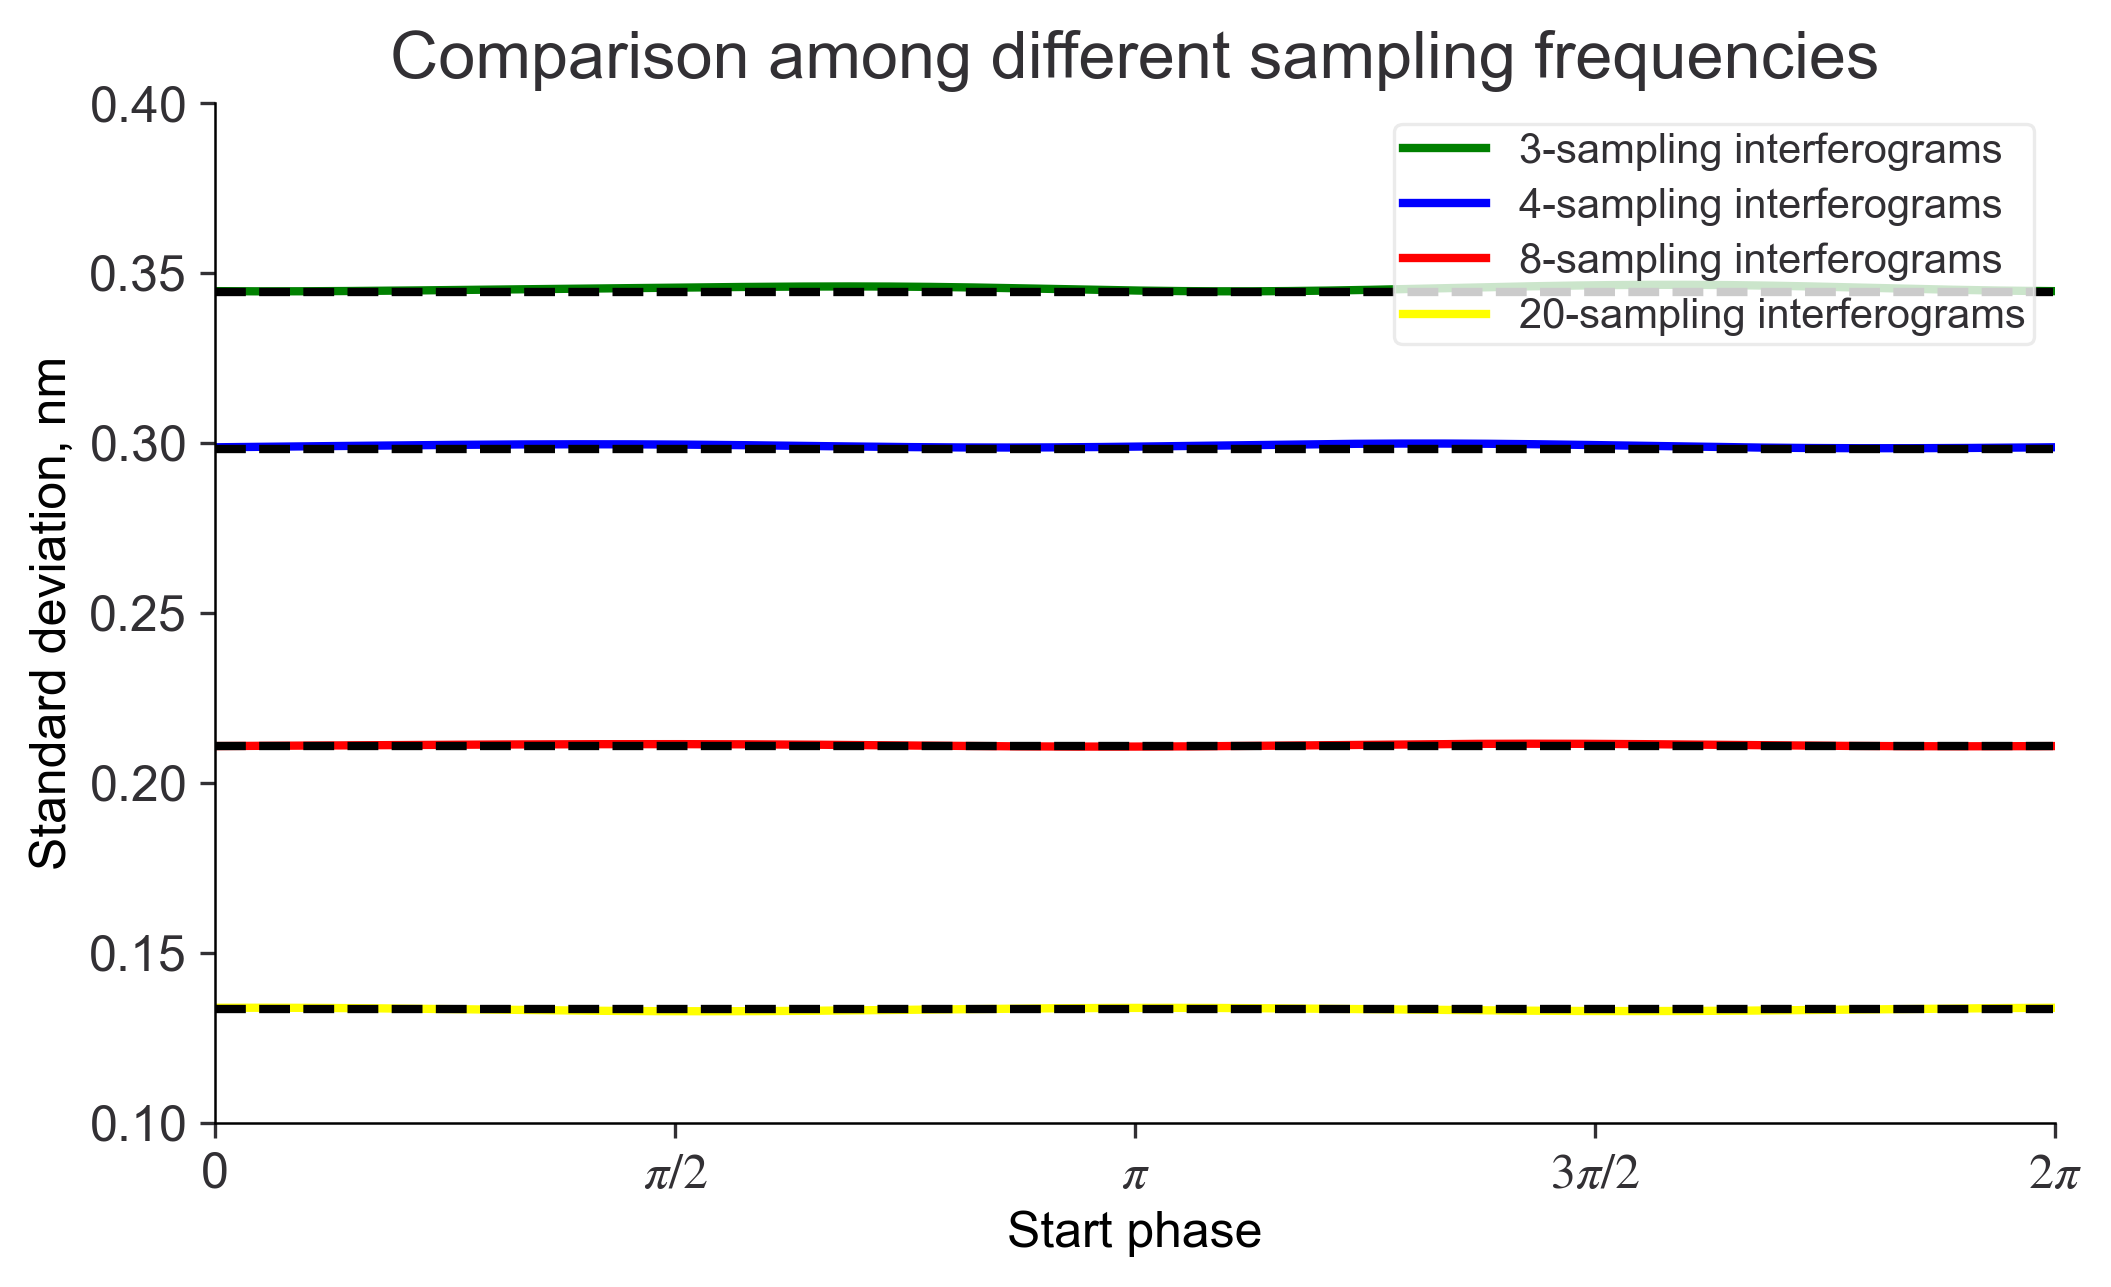
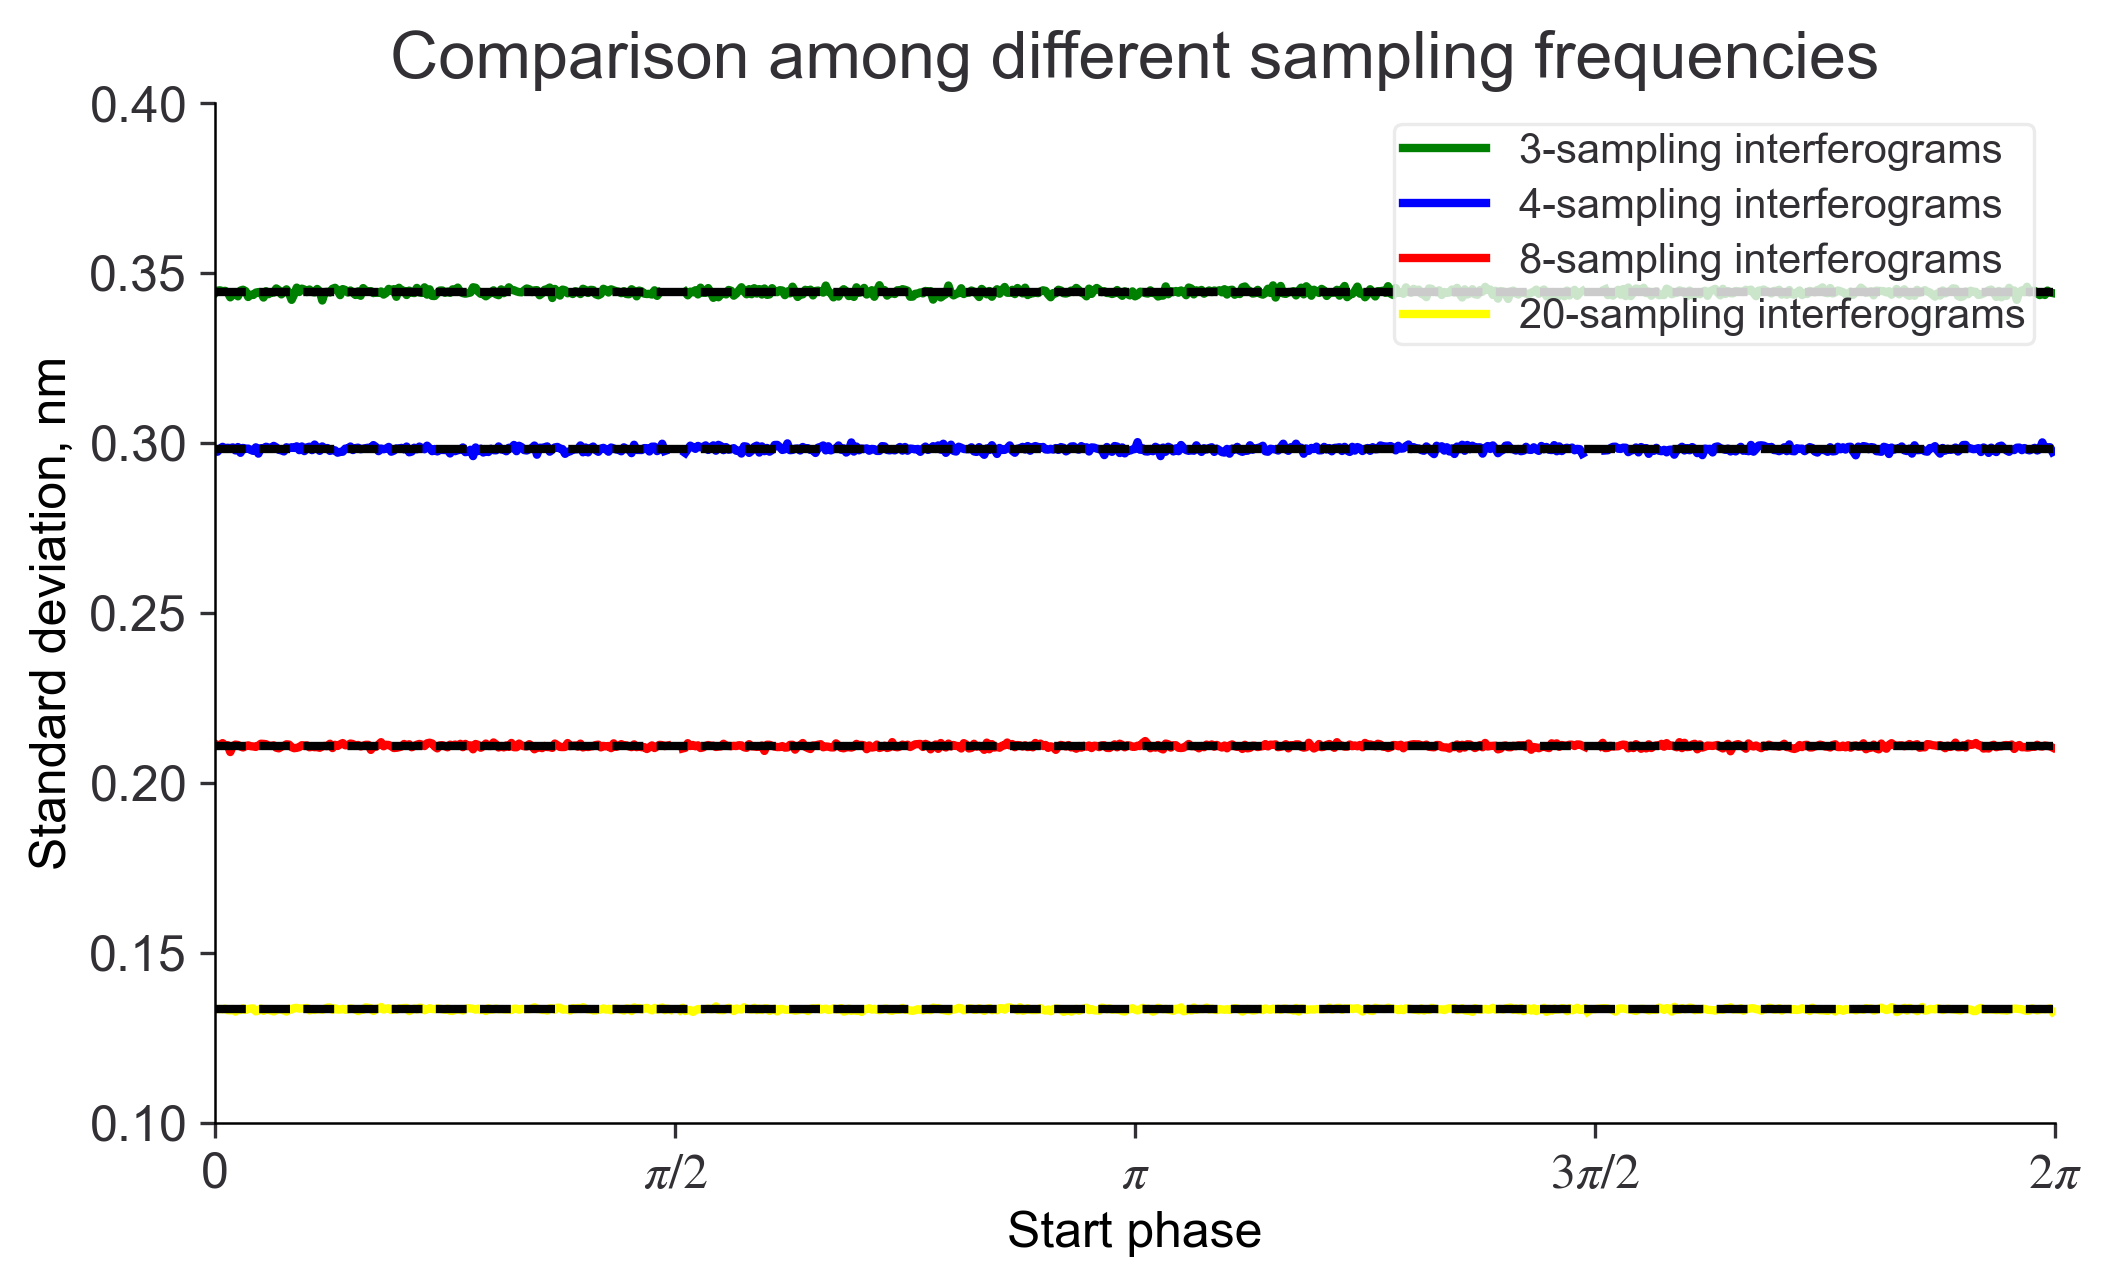
function of PSI

diff --git a/Shot_Noise_N-Diagram.py b/Shot_Noise_N-Diagram.py
@@ -26,17 +26,17 @@ m_std_20 = outlier_delete(m_std_20)
 # create the graph
 plt.style.use('scientific')
 fig = plt.figure()
-plt.plot(m_std_3*.1, label='3-sampling interferograms', color='green')
-plt.plot(n_Step_theoretical_std(step=3, position_noise=False, shot_noise=True)*.1, 'k--')
+plt.plot(m_std_3, label='3-sampling interferograms', color='green')
+plt.plot(n_Step_theoretical_std(step=3, position_noise=False, shot_noise=True), 'k--')
 
-plt.plot(m_std_4*.1, label='4-sampling interferograms', color='blue')
-plt.plot(n_Step_theoretical_std(step=4, position_noise=False, shot_noise=True)*.1, 'k--')
+plt.plot(m_std_4, label='4-sampling interferograms', color='blue')
+plt.plot(n_Step_theoretical_std(step=4, position_noise=False, shot_noise=True), 'k--')
 
-plt.plot(m_std_8*.1, label='8-sampling interferograms', color='red')
-plt.plot(n_Step_theoretical_std(step=8, position_noise=False, shot_noise=True)*.1, 'k--')
+plt.plot(m_std_8, label='8-sampling interferograms', color='red')
+plt.plot(n_Step_theoretical_std(step=8, position_noise=False, shot_noise=True), 'k--')
 
-plt.plot(m_std_20*.1, label='20-sampling interferograms', color='yellow')
-plt.plot(n_Step_theoretical_std(step=20, position_noise=False, shot_noise=True)*.1, 'k--')
+plt.plot(m_std_20, label='20-sampling interferograms', color='yellow')
+plt.plot(n_Step_theoretical_std(step=20, position_noise=False, shot_noise=True), 'k--')
 
 plt.title('Comparison among different sampling frequencies')
 plt.xlabel('Start phase')
@@ -72,14 +72,4 @@ plt.legend(loc='upper right')
 plt.xlim(2, 200)
 plt.tight_layout()
 plt.savefig('Images/Shot Noise/standard deviation vs number of sampling points', bbox_inches='tight')
-plt.show(block=1)
-#%%
-form_noise,std=n_step(step=4,shot_noise=True,position_noise=False,loop=300)
-form_free,_=n_step(step=4,shot_noise=False,position_noise=False,mu_phase=0,loop=300)
-plt.figure()
-plt.subplot(211)
-for i in np.arange(0,4,1):
-    plt.plot(outlier_delete(form_noise[i]-form_free[0]))
-plt.subplot(212)
-plt.plot(std)
 plt.show(block=1)
